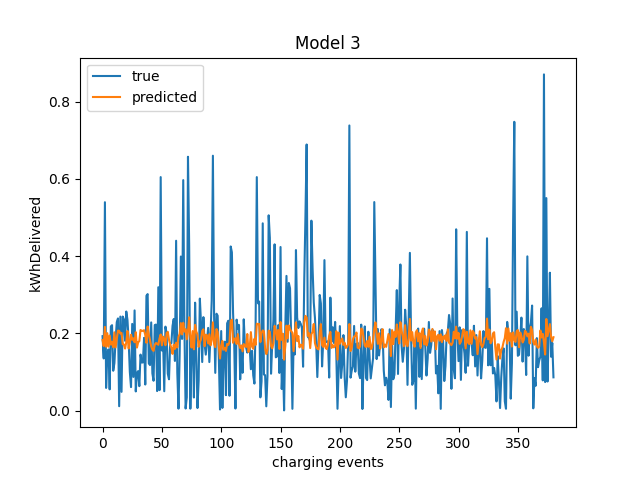
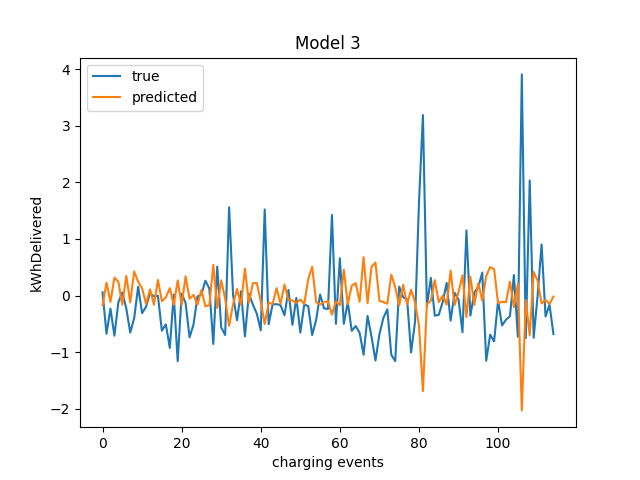
work

diff --git a/src/client.py b/src/client.py
@@ -11,7 +11,7 @@ import keras
 import pandas as pd
 import numpy as np
 from matplotlib import pyplot as plt
-from keras.utils import FeatureSpace
+# from keras.utils import FeatureSpace
 import sys
 from flwr.common.logger import log
 from logging import INFO, DEBUG, log
@@ -27,9 +27,9 @@ retained_columns = ['connectionTime', 'disconnectTime', 'kWhDelivered', 'station
 sliced_data_df = data_df.loc[:, retained_columns]
 
 normalized_df = sliced_data_df.copy(deep=True)
-# normalized_df['kWhDelivered'] = (normalized_df['kWhDelivered'] - normalized_df['kWhDelivered'].mean()) / normalized_df['kWhDelivered'].std()
+normalized_df['kWhDelivered'] = (normalized_df['kWhDelivered'] - normalized_df['kWhDelivered'].mean()) / normalized_df['kWhDelivered'].std()
 # normalized_df['kWhDelivered'] = 1 / (1 + math.e**(-1 * normalized_df['kWhDelivered']))
-normalized_df['kWhDelivered'] = (normalized_df['kWhDelivered'] - normalized_df['kWhDelivered'].min()) / (normalized_df['kWhDelivered'].max() - normalized_df['kWhDelivered'].min()) 
+# normalized_df['kWhDelivered'] = (normalized_df['kWhDelivered'] - normalized_df['kWhDelivered'].min()) / (normalized_df['kWhDelivered'].max() - normalized_df['kWhDelivered'].min()) 
 
 normalized_df['connectionTime'] = pd.to_datetime(normalized_df['connectionTime'], format='%a, %d %b %Y %H:%M:%S %Z', utc=True)
 normalized_df['disconnectTime'] = pd.to_datetime(normalized_df['disconnectTime'], format='%a, %d %b %Y %H:%M:%S %Z', utc=True)
@@ -40,7 +40,8 @@ normalized_df['chargeTime'] = (normalized_df['disconnectTime'] - normalized_df['
 for line in range(len(normalized_df['chargeTime'])):
   normalized_df.at[line, 'chargeTime'] = normalized_df.at[line, 'chargeTime'].seconds
 
-normalized_df['chargeTime'] = (normalized_df['chargeTime'] - normalized_df['chargeTime'].min()) / (normalized_df['chargeTime'].max() - normalized_df['chargeTime'].min()) 
+normalized_df['chargeTime'] = (normalized_df['chargeTime'] - normalized_df['chargeTime'].mean()) / normalized_df['chargeTime'].std()
+# normalized_df['chargeTime'] = (normalized_df['chargeTime'] - normalized_df['chargeTime'].min()) / (normalized_df['chargeTime'].max() - normalized_df['chargeTime'].min()) 
 
 
 # for line in range(len(normalized_df['chargeTime'])):
@@ -77,9 +78,9 @@ plt.show()
 normalized_df = normalized_df.drop(normalized_df.query(str(f'stationID != 178817')).index)
 normalized_df_clean = normalized_df.drop(['connectionTime', 'disconnectTime', 'stationID'], axis=1)
 
-training_df = normalized_df_clean.copy()
-# training_df = normalized_df_clean[:int(len(normalized_df_clean) * .7)]
-test_df = normalized_df_clean[int(len(normalized_df_clean) * .7):]
+# training_df = normalized_df_clean.copy(deep=True)
+training_df = normalized_df_clean[:int(len(normalized_df_clean) * .7)]
+test_df = normalized_df_clean[int(len(normalized_df_clean) * .7):].reset_index()
 
 # def df_to_ds(df, target):
 #   dataframe = df.copy()
@@ -95,22 +96,24 @@ print(training_df.columns)
 training_df_x = training_df.drop(index=0, axis=1)
 training_df_y = training_df.pop('kWhDelivered')
 
-test_df_x = training_df.drop(index=0, axis=1)
-test_df_y = test_df.pop('kWhDelivered')
+# test_df_x = training_df.drop(index=0, axis=1)
+# test_df_y = test_df.pop('kWhDelivered')
 # val_ds = df_to_ds(val_df, 'kWhDelivered')
 # test_ds = df_to_ds(test_df, 'kWhDelivered')
 
 def train(x_train, y_train):
   model = keras.Sequential()
-  model.add(keras.layers.LSTM(10, activation='relu', input_shape=(3, 1)))
+  model.add(keras.layers.LSTM(100, activation='tanh', input_shape=(2, 1)))
   model.add(keras.layers.RepeatVector(1))
-  model.add(keras.layers.LSTM(10, activation='relu', input_shape=(3, 1)))
-  model.add(keras.layers.RepeatVector(1))
-  model.add(keras.layers.LSTM(10, activation='relu', input_shape=(3, 1)))
-  model.add(keras.layers.RepeatVector(1))
+  # model.add(keras.layers.LSTM(100, activation='tanh', input_shape=(2, 1)))
+  # model.add(keras.layers.RepeatVector(1))
+  # model.add(keras.layers.LSTM(500, activation='tanh', input_shape=(3, 1)))
+  # model.add(keras.layers.RepeatVector(1))
+  # model.add(keras.layers.LSTM(100, activation='tanh', input_shape=(3, 1)))
+  # model.add(keras.layers.RepeatVector(1))
   model.add(keras.layers.TimeDistributed(keras.layers.Dense(1, activation='linear')))
   model.compile(optimizer='adam', loss='mean_squared_error', metrics=[keras.metrics.MeanSquaredError()])
-  history = model.fit(x_train, y_train, epochs=750, validation_split=0.2, shuffle=False)
+  history = model.fit(x_train, y_train, epochs=5000, validation_split=0.2, shuffle=False)
 
   return model, history
 
@@ -179,13 +182,13 @@ def round_based_learning(rounds=3):
   # print(local_models)
   i = 1
   for model in local_model_layers:
-    yhat = model.predict(normalized_df_clean)
+    yhat = model.predict(test_df)
     yhat = np.array(yhat).transpose(2, 0, 1).reshape(len(yhat), -1)
 
     plt.xlabel('charging events')
     plt.ylabel('kWhDelivered')
     plt.title(f'Model {i}')
-    plt.plot(normalized_df_clean['kWhDelivered'], label='true')
+    plt.plot(test_df['kWhDelivered'], label='true')
     plt.plot(yhat, label='predicted')
     plt.legend()
     plt.savefig(f'figures\\model_{i}.png')
@@ -193,7 +196,7 @@ def round_based_learning(rounds=3):
     i += 1
 
 
-# round_based_learning()
+round_based_learning(10)
 
 
 # IMPLEMENT THISSSSSSSSSS
